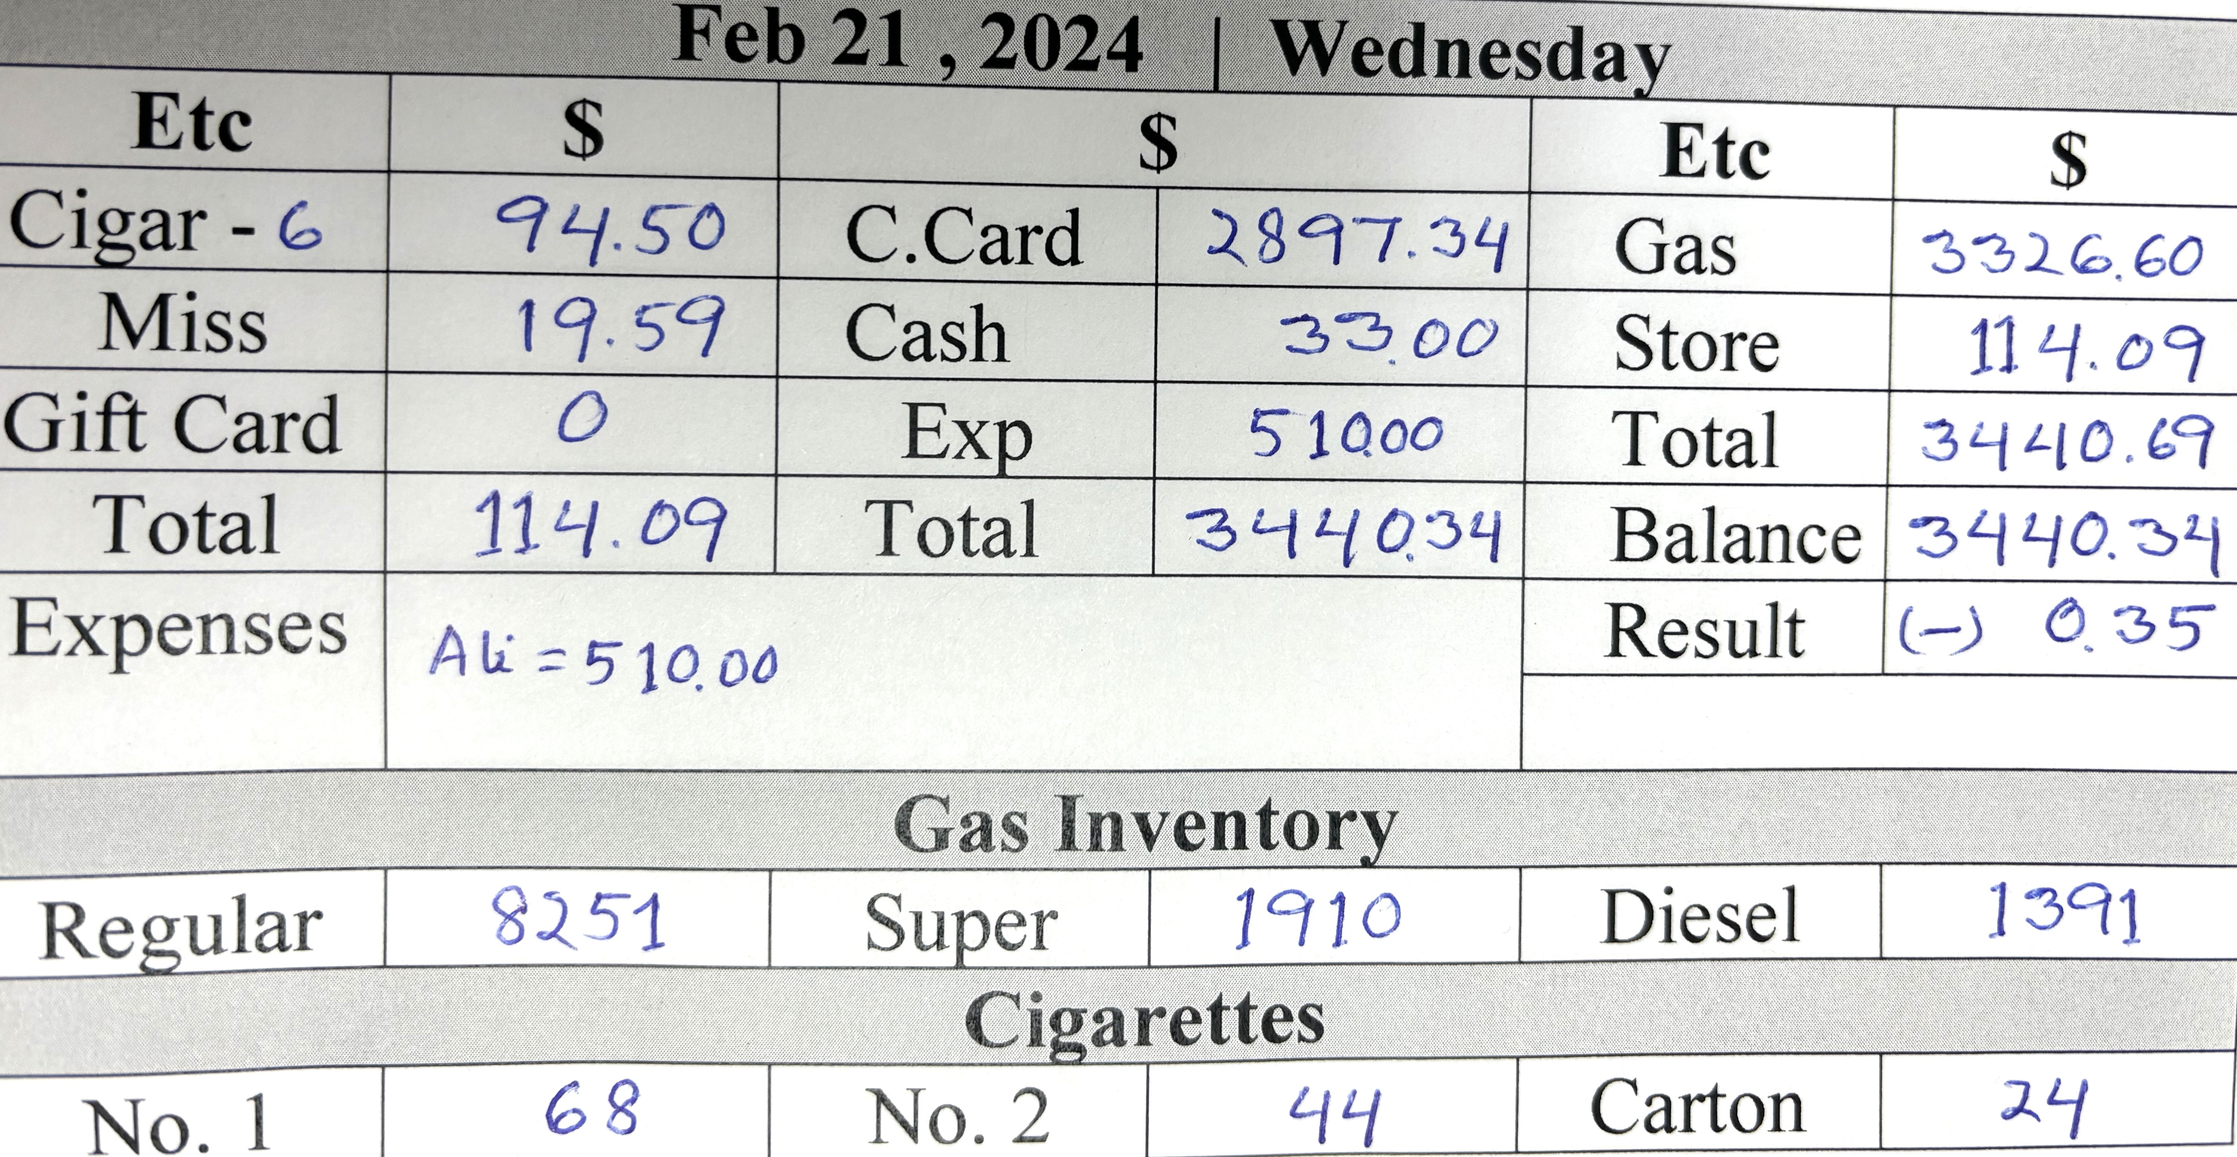
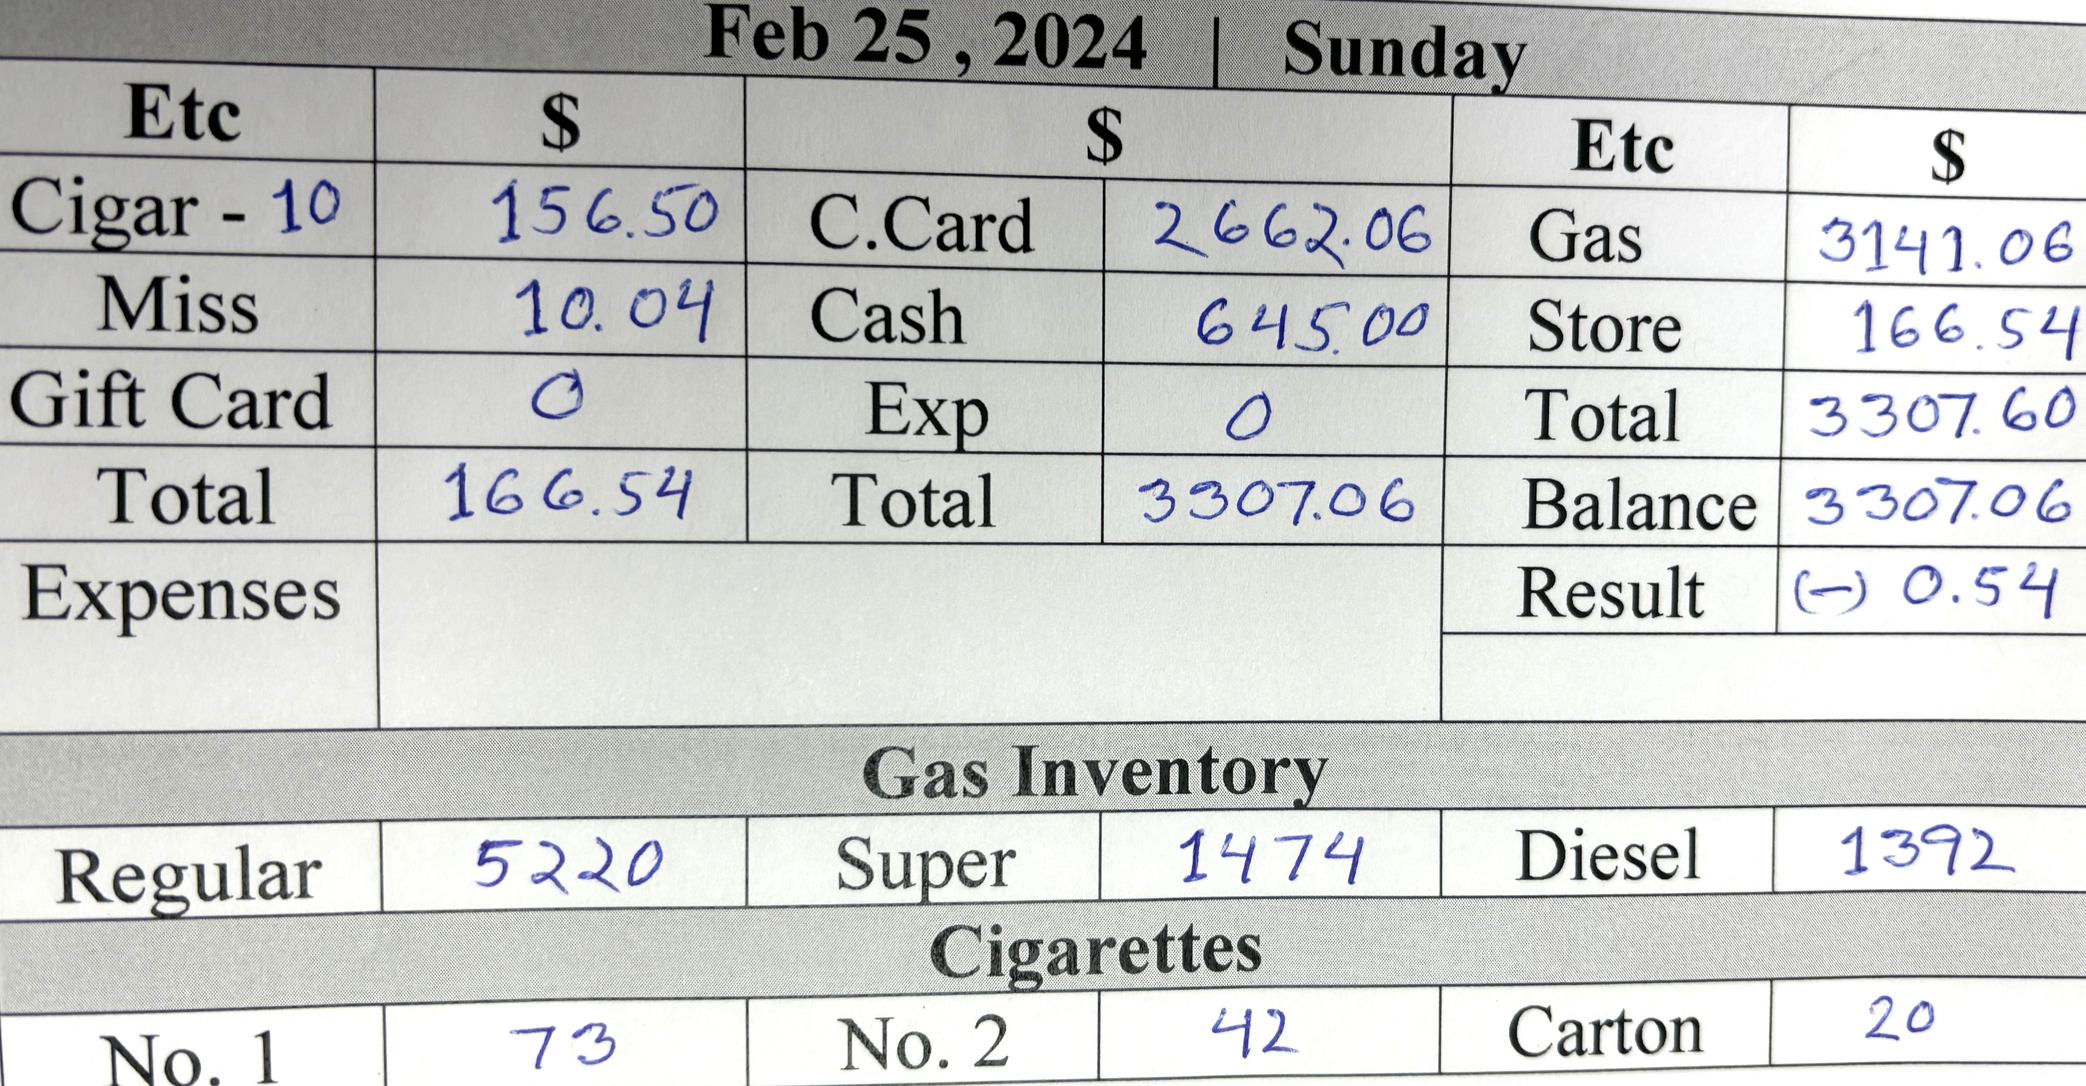
25 done

diff --git a/card.min.html b/card.min.html
@@ -1,1 +1,1 @@
-<!DOCTYPE html> <html lang="en"> <head> <meta charset="UTF-8"> <meta http-equiv="X-UA-Compatible" content="IE=edge"> <meta name="viewport" content="width=device-width,initial-scale=1"> <title>Gallon Info</title> <link rel="stylesheet" href="https://cdn.jsdelivr.net/npm/bootstrap@5.3.0-alpha1/dist/css/bootstrap.min.css"> </head> <body> <div class="card-group d-sm-flex flex-row bd-highlight mb- justify-content-center"> <div class="card bg-secondary align-items-center justify-content-center" style="height:50px"> <div class="card-body text-info fst-italic"> <h5 class="card-title fw-bolder text-center">Regular Price : <span class="text-warning">$3.15</span></h5> </div> </div> <div class="card bg-secondary align-items-center justify-content-center" style="height:50px"> <div class="card-body text-info fst-italic"> <h5 class="card-title fw-bolder text-center pt-">Silver Price : <span class="text-warning">$4.05</span></h5> </div> </div> <div class="card bg-secondary align-items-center justify-content-center" style="height:50px"> <div class="card-body text-info fst-italic"> <h5 class="card-title fw-bolder text-center">Super Price : <span class="text-warning">$4.15</span></h5> </div> </div> <div class="card bg-secondary align-items-center justify-content-center" style="height:50px"> <div class="card-body text-info fst-italic"> <h5 class="card-title fw-bolder text-center">Diesel Price : <span class="text-warning">$4.39</span></h5> </div> </div> </div> <div class="card-group"> <div class="card"> <button type="button" class="btn btn-warning text- fs- fw-bold text-uppercase"> For store Details <a title="printPage Me" class="text-bg-danger ms-3 fw-bolder p-1 rounded-3 text-decoration-none" href="index.html"> Click Me </a> </button> </div> </div> <div class="card-group m-0 d-sm-flex flex-row bd-highlight mb-"> <div class="card me-1 bg-info"> <h5 class="card-title text-center pt-4 m-0"> <button class="p-1 rounded-3" type="button"><a title="Click Me" class="text-decoration-none text-primary fw-bolder" href="index.html">   </a> </button> </h5>  <p class="card-text"></p> <img src="allPic/21.jpg" class="card-img-top text-danger text-center fw-bolder fs-3" alt="Call Rashid "> <div class="card-body">   <p class="card-text"></p> </div> </div> <div class="card me-1 bg-info"> <h5 class="card-title text-center pt-4 m-0"> <button class="p-1 rounded-3" type="button"><a title="Click Me" class="text-primary fw-bolder text-decoration-none" href="index.html"> Feb 20,2024 </a> </button> </h5>  <p class="card-text"></p> <img src="allPic/20.jpg" class="card-img-top text-center text-bg-danger" alt="Not Done"> <div class="card-body">   <p class="card-text"></p> </div> </div> <div class="card ms- bg-info"> <h5 class="card-title text-center pt-4 m-0"> <button class="p-1 rounded-3" type="button"><a title="Click Me" class="text-primary fw-bolder text-decoration-none" href="index.html"> Feb 19,2024 </a> </button> </h5>  <p class="card-text"></p> <img src="allPic/19.jpg" class="card-img-top text-center text-bg-danger" alt="Not Done"> <div class="card-body">   <p class="card-text"></p> </div> </div> <div class="card me-1 bg-info"> <h5 class="card-title text-center pt-4 m-0"> <button class="p-1 rounded-3" type="button"><a title="Click Me" class="text-primary fw-bolder text-decoration-none" href="index.html"> Feb 18,2024 </a> </button> </h5>  <p class="card-text"></p> <img title="Pic" src="allPic/18.jpg" class="card-img-top text-bg-danger fw-bolder text-center" alt="Already Done"> <div class="card-body">   <p class="card-text"></p> </div> </div> </div> <div class="card"> <div class="card-header bg-warning text-dark fw-bolder text-center py-3"> All Rights Reserved @ Jaber Ali , 2024 </div> </div>  <script type="text/javascript">const timeElement=document.querySelector(".time"),dateElement=document.querySelector(".date");function formatTime(e){e.getHours(),e.getMinutes(),e.getHours();return""}function formatDate(e){return` ${["January","February","March","April","May","June","July","August","September","October","November","December"][e.getMonth()]} ${e.getDate()-1}, ${e.getFullYear()}`}setInterval((()=>{const e=new Date;timeElement.textContent=formatTime(e),dateElement.textContent=formatDate(e)}),200)</script> 
+<!DOCTYPE html> <html lang="en"> <head> <meta charset="UTF-8"> <meta http-equiv="X-UA-Compatible" content="IE=edge"> <meta name="viewport" content="width=device-width,initial-scale=1"> <title>Gallon Info</title> <link rel="stylesheet" href="https://cdn.jsdelivr.net/npm/bootstrap@5.3.0-alpha1/dist/css/bootstrap.min.css"> </head> <body> <div class="card-group d-sm-flex flex-row bd-highlight mb- justify-content-center"> <div class="card bg-secondary align-items-center justify-content-center" style="height:50px"> <div class="card-body text-info fst-italic"> <h5 class="card-title fw-bolder text-center">Regular Price : <span class="text-warning">$3.15</span></h5> </div> </div> <div class="card bg-secondary align-items-center justify-content-center" style="height:50px"> <div class="card-body text-info fst-italic"> <h5 class="card-title fw-bolder text-center pt-">Silver Price : <span class="text-warning">$4.05</span></h5> </div> </div> <div class="card bg-secondary align-items-center justify-content-center" style="height:50px"> <div class="card-body text-info fst-italic"> <h5 class="card-title fw-bolder text-center">Super Price : <span class="text-warning">$4.15</span></h5> </div> </div> <div class="card bg-secondary align-items-center justify-content-center" style="height:50px"> <div class="card-body text-info fst-italic"> <h5 class="card-title fw-bolder text-center">Diesel Price : <span class="text-warning">$4.39</span></h5> </div> </div> </div> <div class="card-group"> <div class="card"> <button type="button" class="btn btn-warning text- fs- fw-bold text-uppercase"> For store Details <a title="printPage Me" class="text-bg-danger ms-3 fw-bolder p-1 rounded-3 text-decoration-none" href="index.html"> Click Me </a> </button> </div> </div> <div class="card-group m-0 d-sm-flex flex-row bd-highlight mb-"> <div class="card me-1 bg-info"> <h5 class="card-title text-center pt-4 m-0"> <button class="p-1 rounded-3" type="button"><a title="Click Me" class="text-decoration-none text-primary fw-bolder" href="index.html">   </a> </button> </h5>  <p class="card-text"></p> <img src="allPic/25.jpg" class="card-img-top text-danger text-center fw-bolder fs-3" alt="Call Rashid "> <div class="card-body">   <p class="card-text"></p> </div> </div> <div class="card me-1 bg-info"> <h5 class="card-title text-center pt-4 m-0"> <button class="p-1 rounded-3" type="button"><a title="Click Me" class="text-primary fw-bolder text-decoration-none" href="index.html"> Feb 24,2024 </a> </button> </h5>  <p class="card-text"></p> <img src="allPic/24.jpg" class="card-img-top text-center text-bg-danger" alt="Not Done"> <div class="card-body">   <p class="card-text"></p> </div> </div> <div class="card ms- bg-info"> <h5 class="card-title text-center pt-4 m-0"> <button class="p-1 rounded-3" type="button"><a title="Click Me" class="text-primary fw-bolder text-decoration-none" href="index.html"> Feb 23,2024 </a> </button> </h5>  <p class="card-text"></p> <img src="allPic/23.jpg" class="card-img-top text-center text-bg-danger" alt="Not Done"> <div class="card-body">   <p class="card-text"></p> </div> </div> <div class="card me-1 bg-info"> <h5 class="card-title text-center pt-4 m-0"> <button class="p-1 rounded-3" type="button"><a title="Click Me" class="text-primary fw-bolder text-decoration-none" href="index.html"> Feb 22,2524 </a> </button> </h5>  <p class="card-text"></p> <img title="Pic" src="allPic/22.jpg" class="card-img-top text-bg-danger fw-bolder text-center" alt="Already Done"> <div class="card-body">   <p class="card-text"></p> </div> </div> </div> <div class="card"> <div class="card-header bg-warning text-dark fw-bolder text-center py-3"> All Rights Reserved @ Jaber Ali , 2024 </div> </div>  <script type="text/javascript">const timeElement=document.querySelector(".time"),dateElement=document.querySelector(".date");function formatTime(e){e.getHours(),e.getMinutes(),e.getHours();return""}function formatDate(e){return` ${["January","February","March","April","May","June","July","August","September","October","November","December"][e.getMonth()]} ${e.getDate()-1}, ${e.getFullYear()}`}setInterval((()=>{const e=new Date;timeElement.textContent=formatTime(e),dateElement.textContent=formatDate(e)}),200)</script> 

diff --git a/weekly.min.html b/weekly.min.html
@@ -1,1 +1,1 @@
-<!DOCTYPE html> <html lang="en"> <meta charset="UTF-8"> <meta http-equiv="X-UA-Compatible" content="IE=edge"> <meta name="viewport" content="width=device-width,initial-scale=1"> <title>Cigarettes Info</title> <link rel="stylesheet" href="https://cdn.jsdelivr.net/npm/bootstrap@5.3.0-alpha1/dist/css/bootstrap.min.css">  <body> <div class="text-bg-success py-2 fw-bold"> <marquee behavior="" direction="">Weekly Total Sales Money</marquee> </div> <div class="container-fluid text-center m-0 p-0"> <div class="card-group"> <div class="card"> <button type="button" class="btn btn-warning fs- fw-bold text-uppercase"> Home Page <a title="printPage Me" class="text-bg-danger ms-2 fw-bolder p-1 rounded-3 text-decoration-none" href="index.html"> Click Me </a> </button> </div> </div> <div class="text-bg-info text-cente py- fw-bold mb-"> <div class="card-group m-0 d-sm-flex flex-row bd-highlight mb-"> <div class="card me- bg-inf"> <h5 class="text-center ms-5 mt-3 text-danger">Current Week</h5> <div class="card-body ms-3 p-0"> <table class="table"> <tr class="text-end"> <td>Monday </td> <td>:</td> <td class="text-start"> 576.00</td> </tr> <tr class="text-end"> <td>Tuesday </td> <td> :</td> <td class="text-start"> 367.00 </td> </tr> <tr class="text-end"> <td>Wednesday</td> <td> :</td> <td class="text-start">543.00</td> </tr> <tr class="text-end"> <td>Thursday </td> <td> :</td> <td class="text-start"> .00 </td> </tr> <tr class="text-end"> <td class="">Friday </td> <td> :</td> <td class="text-start"> .00</td> </tr> <tr class="text-end"> <td>Saturday </td> <td> :</td> <td class="text-start">.00</td> </tr> <tr class="text-end"> <td>Sunday </td> <td> :</td> <td class="text-start"> .00 </td> </tr> <tr class="text-end"> <td>Auto Money </td> <td> :</td> <td class="text-start"> .00 </td> </tr> </table> <div class="m-0 p-0"> <p class="text-center text-danger bg-light fw-bold">Total Money : 00 </p> </div> </div> </div> <div class="card me- bg-inf"> <h5 class="text-center ms- mt-3 text-danger">Last Week : Feb 12 to 18 , 2024</h5> <div class="card-body ms-3 p-0"> <table class="table"> <tr class="text-end"> <td>Monday </td> <td>:</td> <td class="text-start"> 807.00</td> </tr> <tr class="text-end"> <td>Tuesday </td> <td> :</td> <td class="text-start"> 324.00 </td> </tr> <tr class="text-end"> <td>Wednesday</td> <td> :</td> <td class="text-start">521.00</td> </tr> <tr class="text-end"> <td>Thursday </td> <td> :</td> <td class="text-start"> 910.00 </td> </tr> <tr class="text-end"> <td class="">Friday </td> <td> :</td> <td class="text-start"> 626.00</td> </tr> <tr class="text-end"> <td>Saturday </td> <td> :</td> <td class="text-start">691.00</td> </tr> <tr class="text-end"> <td>Sunday </td> <td> :</td> <td class="text-start"> 635.00 </td> </tr> <tr class="text-end"> <td>Auto Money </td> <td> :</td> <td class="text-start">248 <sup class="p-1 rounded-4 text-bg-dark">Tax:25</sup> [Mostofa=223] </td> </tr> </table> <div class="m-0 p-0"> <p class="text-center text-danger bg-light fw-bold">Total Money : 4762 - 992 = 3770 </p> </div> </div> </div> <div class="card me- bg-"> <div class="card-body"> <h5 class="text-start text-danger ms-2">Expenses of Last Week</h5> <table class="table text-start"> <tr> <td class="">Ali <span class="ms-5">: 420.00</span></td> </tr> <tr> <td class="">Rashid <span class="ms-3">: 572.00</span></td> </tr> <tr> <td class="text-bg-warning text-dark rounded-2">Total <span class="ms-4">: 992.00</span></td> </tr> </table> </div> </div> </div> </div> <!-- #footer start --> <div class="text-bg-success text-center py-2 fw-bold"> <p> All Rights Reserved @ Jaber Ali , 2024  </p> </div> </div> <script type="text/javascript">function printPage(){window.print()}</script> 
+<!DOCTYPE html> <html lang="en"> <meta charset="UTF-8"> <meta http-equiv="X-UA-Compatible" content="IE=edge"> <meta name="viewport" content="width=device-width,initial-scale=1"> <title>Cigarettes Info</title> <link rel="stylesheet" href="https://cdn.jsdelivr.net/npm/bootstrap@5.3.0-alpha1/dist/css/bootstrap.min.css">  <body> <div class="text-bg-success py-2 fw-bold"> <marquee behavior="" direction="">Weekly Total Sales Money</marquee> </div> <div class="container-fluid text-center m-0 p-0"> <div class="card-group"> <div class="card"> <button type="button" class="btn btn-warning fs- fw-bold text-uppercase"> Home Page <a title="printPage Me" class="text-bg-danger ms-2 fw-bolder p-1 rounded-3 text-decoration-none" href="index.html"> Click Me </a> </button> </div> </div> <div class="text-bg-info text-cente py- fw-bold mb-"> <div class="card-group m-0 d-sm-flex flex-row bd-highlight mb-"> <div class="card me- bg-inf"> <h5 class="text-center ms-5 mt-3 text-danger">Current Week</h5> <div class="card-body ms-3 p-0"> <table class="table"> <tr class="text-end"> <td>Monday </td> <td>:</td> <td class="text-start"> 576.00</td> </tr> <tr class="text-end"> <td>Tuesday </td> <td> :</td> <td class="text-start"> 367.00 </td> </tr> <tr class="text-end"> <td>Wednesday</td> <td> :</td> <td class="text-start">543.00</td> </tr> <tr class="text-end"> <td>Thursday </td> <td> :</td> <td class="text-start"> 670.00 </td> </tr> <tr class="text-end"> <td class="">Friday </td> <td> :</td> <td class="text-start"> 400.00</td> </tr> <tr class="text-end"> <td>Saturday </td> <td> :</td> <td class="text-start">362.00</td> </tr> <tr class="text-end"> <td>Sunday </td> <td> :</td> <td class="text-start"> 645.00 </td> </tr> <tr class="text-end"> <td>Auto Money </td> <td> :</td> <td class="text-start"> .00 </td> </tr> </table> <div class="m-0 p-0"> <p class="text-center text-danger bg-light fw-bold">Total Money : 00 </p> </div> </div> </div> <div class="card me- bg-inf"> <h5 class="text-center ms- mt-3 text-danger">Last Week : Feb 12 to 18 , 2024</h5> <div class="card-body ms-3 p-0"> <table class="table"> <tr class="text-end"> <td>Monday </td> <td>:</td> <td class="text-start"> 807.00</td> </tr> <tr class="text-end"> <td>Tuesday </td> <td> :</td> <td class="text-start"> 324.00 </td> </tr> <tr class="text-end"> <td>Wednesday</td> <td> :</td> <td class="text-start">521.00</td> </tr> <tr class="text-end"> <td>Thursday </td> <td> :</td> <td class="text-start"> 910.00 </td> </tr> <tr class="text-end"> <td class="">Friday </td> <td> :</td> <td class="text-start"> 626.00</td> </tr> <tr class="text-end"> <td>Saturday </td> <td> :</td> <td class="text-start">691.00</td> </tr> <tr class="text-end"> <td>Sunday </td> <td> :</td> <td class="text-start"> 635.00 </td> </tr> <tr class="text-end"> <td>Auto Money </td> <td> :</td> <td class="text-start">248 <sup class="p-1 rounded-4 text-bg-dark">Tax:25</sup> [Mostofa=223] </td> </tr> </table> <div class="m-0 p-0"> <p class="text-center text-danger bg-light fw-bold">Total Money : 4762 - 992 = 3770 </p> </div> </div> </div> <div class="card me- bg-"> <div class="card-body"> <h5 class="text-start text-danger ms-2">Expenses of Last Week</h5> <table class="table text-start"> <tr> <td class="">Ali <span class="ms-5">: 420.00</span></td> </tr> <tr> <td class="">Rashid <span class="ms-3">: 572.00</span></td> </tr> <tr> <td class="text-bg-warning text-dark rounded-2">Total <span class="ms-4">: 992.00</span></td> </tr> </table> </div> </div> </div> </div> <!-- #footer start --> <div class="text-bg-success text-center py-2 fw-bold"> <p> All Rights Reserved @ Jaber Ali , 2024  </p> </div> </div> <script type="text/javascript">function printPage(){window.print()}</script> 

diff --git a/card.html b/card.html
@@ -67,7 +67,7 @@
         </h5>
           <p class="card-text"></p>
           <p class="card-text"><small class="text-muted"></small></p>
-        <img src="allPic/21.jpg" class="card-img-top text-danger text-center fw-bolder fs-3"   alt="Call Rashid ">
+        <img src="allPic/25.jpg" class="card-img-top text-danger text-center fw-bolder fs-3"   alt="Call Rashid ">
         <div class="card-body">
           <h5 class="card-title"></h5>
           <p class="card-text"></p>
@@ -78,13 +78,13 @@
         <h5 class="card-title text-center pt-4 m-0">
           <button class="p-1 rounded-3" type="button"><a title="Click Me"
              class="text-primary fw-bolder text-decoration-none " href="index.html">
-             Feb 20,2024
+             Feb 24,2024
           </a>
           </button>
         </h5>
           <p class="card-text"></p>
           <p class="card-text"><small class="text-muted"></small></p>
-        <img src="allPic/20.jpg" class="card-img-top text-center text-bg-danger" 
+        <img src="allPic/24.jpg" class="card-img-top text-center text-bg-danger" 
         alt="Not Done">
         <div class="card-body">
           <h5 class="card-title"></h5>
@@ -96,13 +96,13 @@
         <h5 class="card-title text-center pt-4 m-0 ">
           <button class="p-1 rounded-3" type="button"><a title="Click Me" 
             class="text-primary fw-bolder text-decoration-none " href="index.html">
-            Feb 19,2024         
+            Feb 23,2024         
           </a>
           </button>
           </h5>
           <p class="card-text"></p>
           <p class="card-text"><small class="text-muted"></small></p>
-        <img src="allPic/19.jpg" class="card-img-top text-center text-bg-danger" 
+        <img src="allPic/23.jpg" class="card-img-top text-center text-bg-danger" 
         alt="Not Done">
         <div class="card-body">
           <h5 class="card-title"></h5>
@@ -115,13 +115,13 @@
         <h5 class="card-title text-center pt-4 m-0 ">
           <button class="p-1 rounded-3" type="button"><a title="Click Me" 
             class="text-primary fw-bolder text-decoration-none " href="index.html">
-             Feb 18,2024
+             Feb 22,2524
             </a>
           </button>
           </h5>
           <p class="card-text"></p>
           <p class="card-text"><small class="text-muted"></small></p>
-        <img title="Pic" src="allPic/18.jpg" class="card-img-top  text-bg-danger fw-bolder text-center"
+        <img title="Pic" src="allPic/22.jpg" class="card-img-top  text-bg-danger fw-bolder text-center"
          alt="Already Done">
         <div class="card-body">
           <h5 class="card-title"></h5>

diff --git a/weekly.html b/weekly.html
@@ -64,22 +64,22 @@
                 <tr class=" text-end">
                     <td>Thursday </td>
                     <td> :</td>
-                    <td class="text-start">  .00  </td>  
+                    <td class="text-start">  670.00  </td>  
                 </tr>
                 <tr class=" text-end">
                     <td class="">Friday </td>
                     <td> :</td>
-                    <td class="text-start">  .00</td>  
+                    <td class="text-start">  400.00</td>  
                 </tr>
                 <tr class=" text-end">
                     <td>Saturday </td>
                     <td> :</td>
-                    <td class="text-start">.00</td>
+                    <td class="text-start">362.00</td>
                 </tr>
                 <tr class=" text-end">
                     <td>Sunday </td>
                     <td> :</td>
-                    <td class="text-start"> .00 </td> 
+                    <td class="text-start"> 645.00 </td> 
                 </tr>
                 <tr class=" text-end">
                   <td>Auto Money </td>
